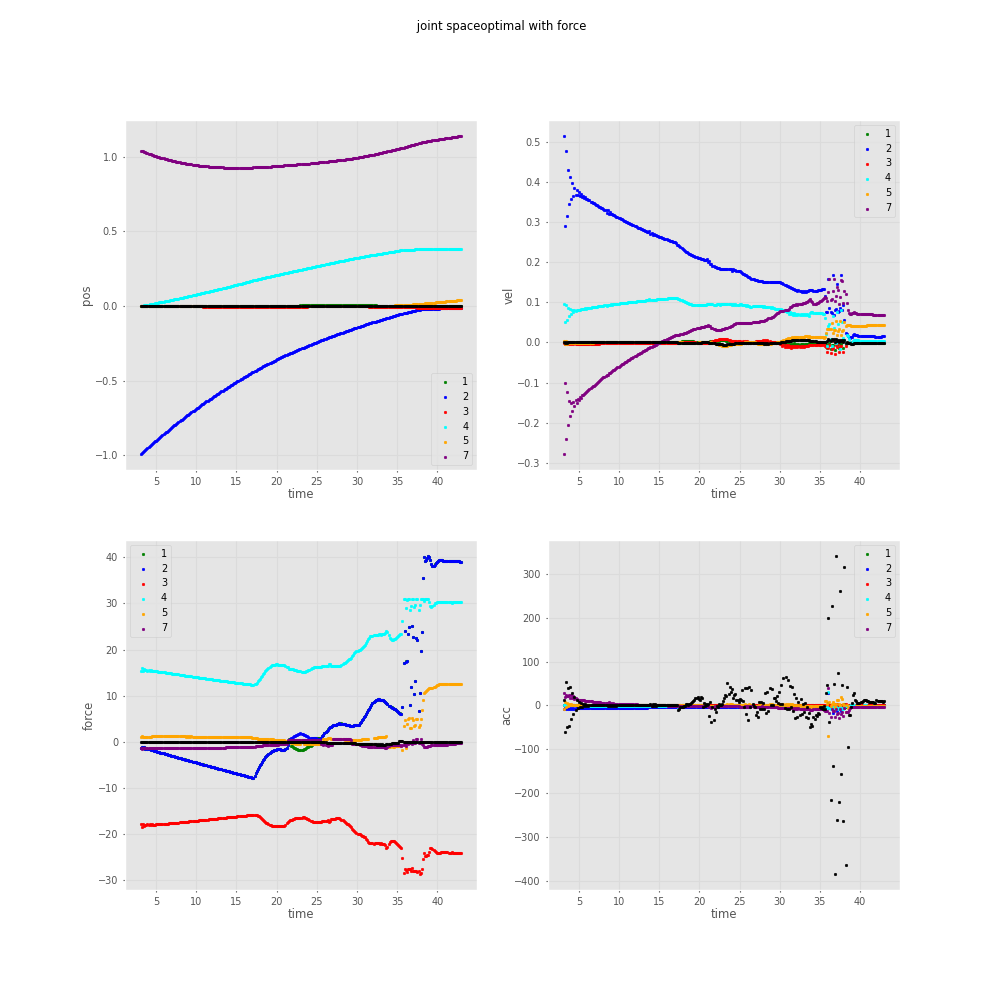
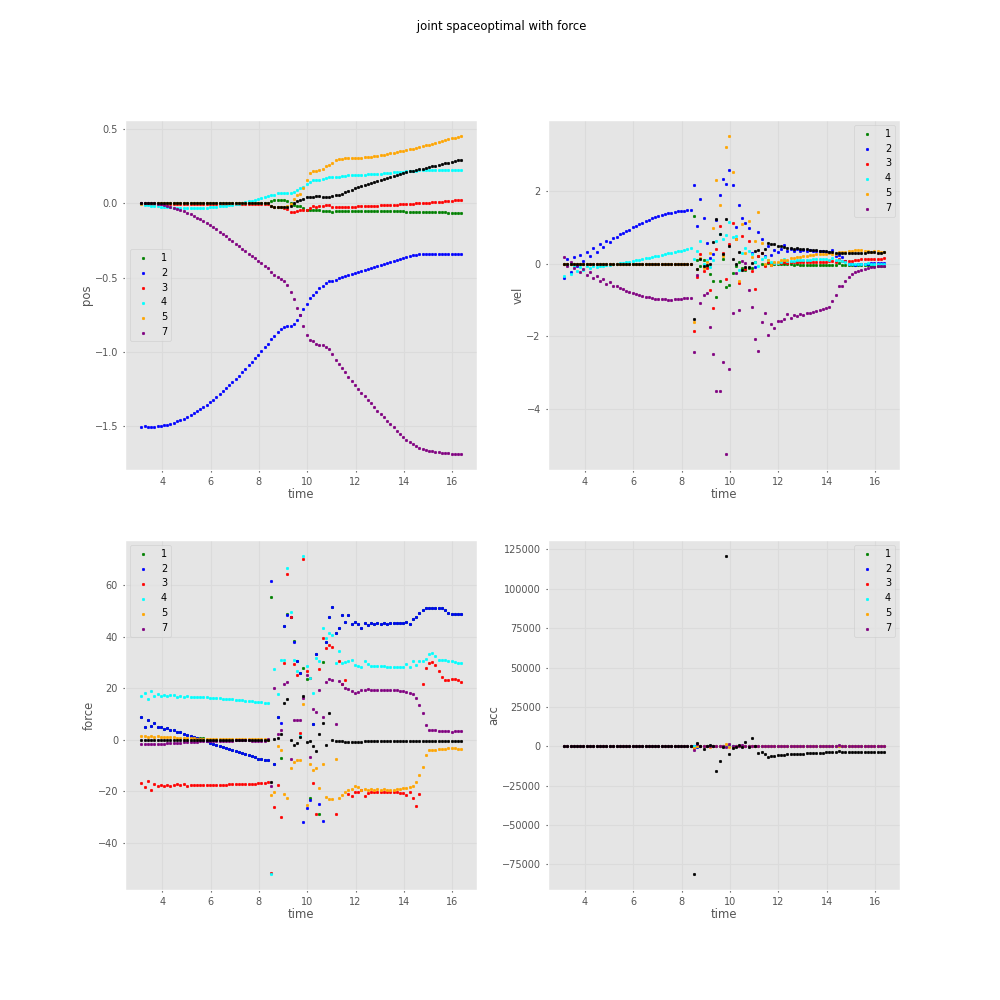
fix the controller time

diff --git a/mpc_controller.py b/mpc_controller.py
@@ -19,10 +19,9 @@ class MPC:
         time.sleep(1)
         print("Start controller")
         self.Ax, self.Bx, self.Af, self.Bf = np.eye(3), np.eye(3)*self.dt_opt, np.eye(3), np.eye(3)/self.dt_opt
-        self.R = np.eye(self.n)
         self.P = np.eye(3)*1000
         self.F = np.eye(3)*100
-        self.G = np.eye(3)*100
+        self.G = np.eye(3)*1
         self.P = self.P.T @ self.P
         self.G = self.G.T @self.G
         self.F = self.F.T @self.F
@@ -99,13 +98,14 @@ class MPC:
         self.sensor_wrench.append(robot.get_ee_wrench())
                
 
-    def resolve_rate_controller(self, robot, desired_ee_vel, robot_ee_pose):
+    def resolve_rate_controller(self, robot, desired_ee_vel, robot_ee_pose, start_time):
         J = robot.get_jacobian()
         pnv_j = np.linalg.pinv(J)
         next_ee_vel = np.zeros(6)
         desired_ee_vel = np.asarray(desired_ee_vel)[0:3]
         curr_end_eff_position = robot.get_ee_position()
-        desired_ee_position = curr_end_eff_position + desired_ee_vel *self.dt_opt
+        robot_ee_pose = [.14,0,.5]
+        desired_ee_position = [.14,0,.5] + desired_ee_vel *(time.time()-start_time)
         wrench = robot.get_ee_wrench()
         force = np.asarray(wrench[0:3])
         next_ee_vel[0:3] = self.get_optimal_vel(force, robot, desired_ee_position, desired_ee_vel)

diff --git a/run_controller.py b/run_controller.py
@@ -35,18 +35,18 @@ def generate_save_plt(x, y_array, y_labels, time1, time2, title, legend, additio
 if __name__ == '__main__':
     print("testing robot.py setup")
     robot = RoboEnv()
-    dt, steps = 1/10, 300
+    dt, steps = 1/10, 100
     mpc = MPC(dt=dt)
     curr_robot_position = robot.data.site_xpos[0]
     start_time = time.time()
     np.random.seed(42)
     target_pose = np.random.uniform(-np.pi/2, np.pi/2, size=7)
-    target_vel = [1, 0., 0., 0, 0, 0.]
+    target_vel = [.1, 0., 0., 0, 0, 0.]
     ee_position = robot.get_ee_position()
     # print("position", ee_position)
     __, _, robot_ee_ini_pose = robot.get_ee_pose()
     for i in range(0, steps):
-        mpc.resolve_rate_controller(robot, target_vel, robot_ee_ini_pose)
+        mpc.resolve_rate_controller(robot, target_vel, robot_ee_ini_pose, start_time)
 
     actuator_torque = np.asarray(mpc.actuator_torque)
     wrench_jac = np.asarray(mpc.wrench_jac)

diff --git a/robot.py b/robot.py
@@ -65,7 +65,7 @@ class RoboEnv(MuJoCoBase):
         return robot
 
     def reset_joints(self):
-        angles = [0, -1, 0, 0, 0.0, np.pi/3, 0]
+        angles = [0, -1.5, 0, 0, 0.0, 0, 0]
         for joint, ang in zip(self.joint_ids, angles):
             self.data.qpos[joint] = ang
         mujoco.mj_forward(self.model, self.data)
